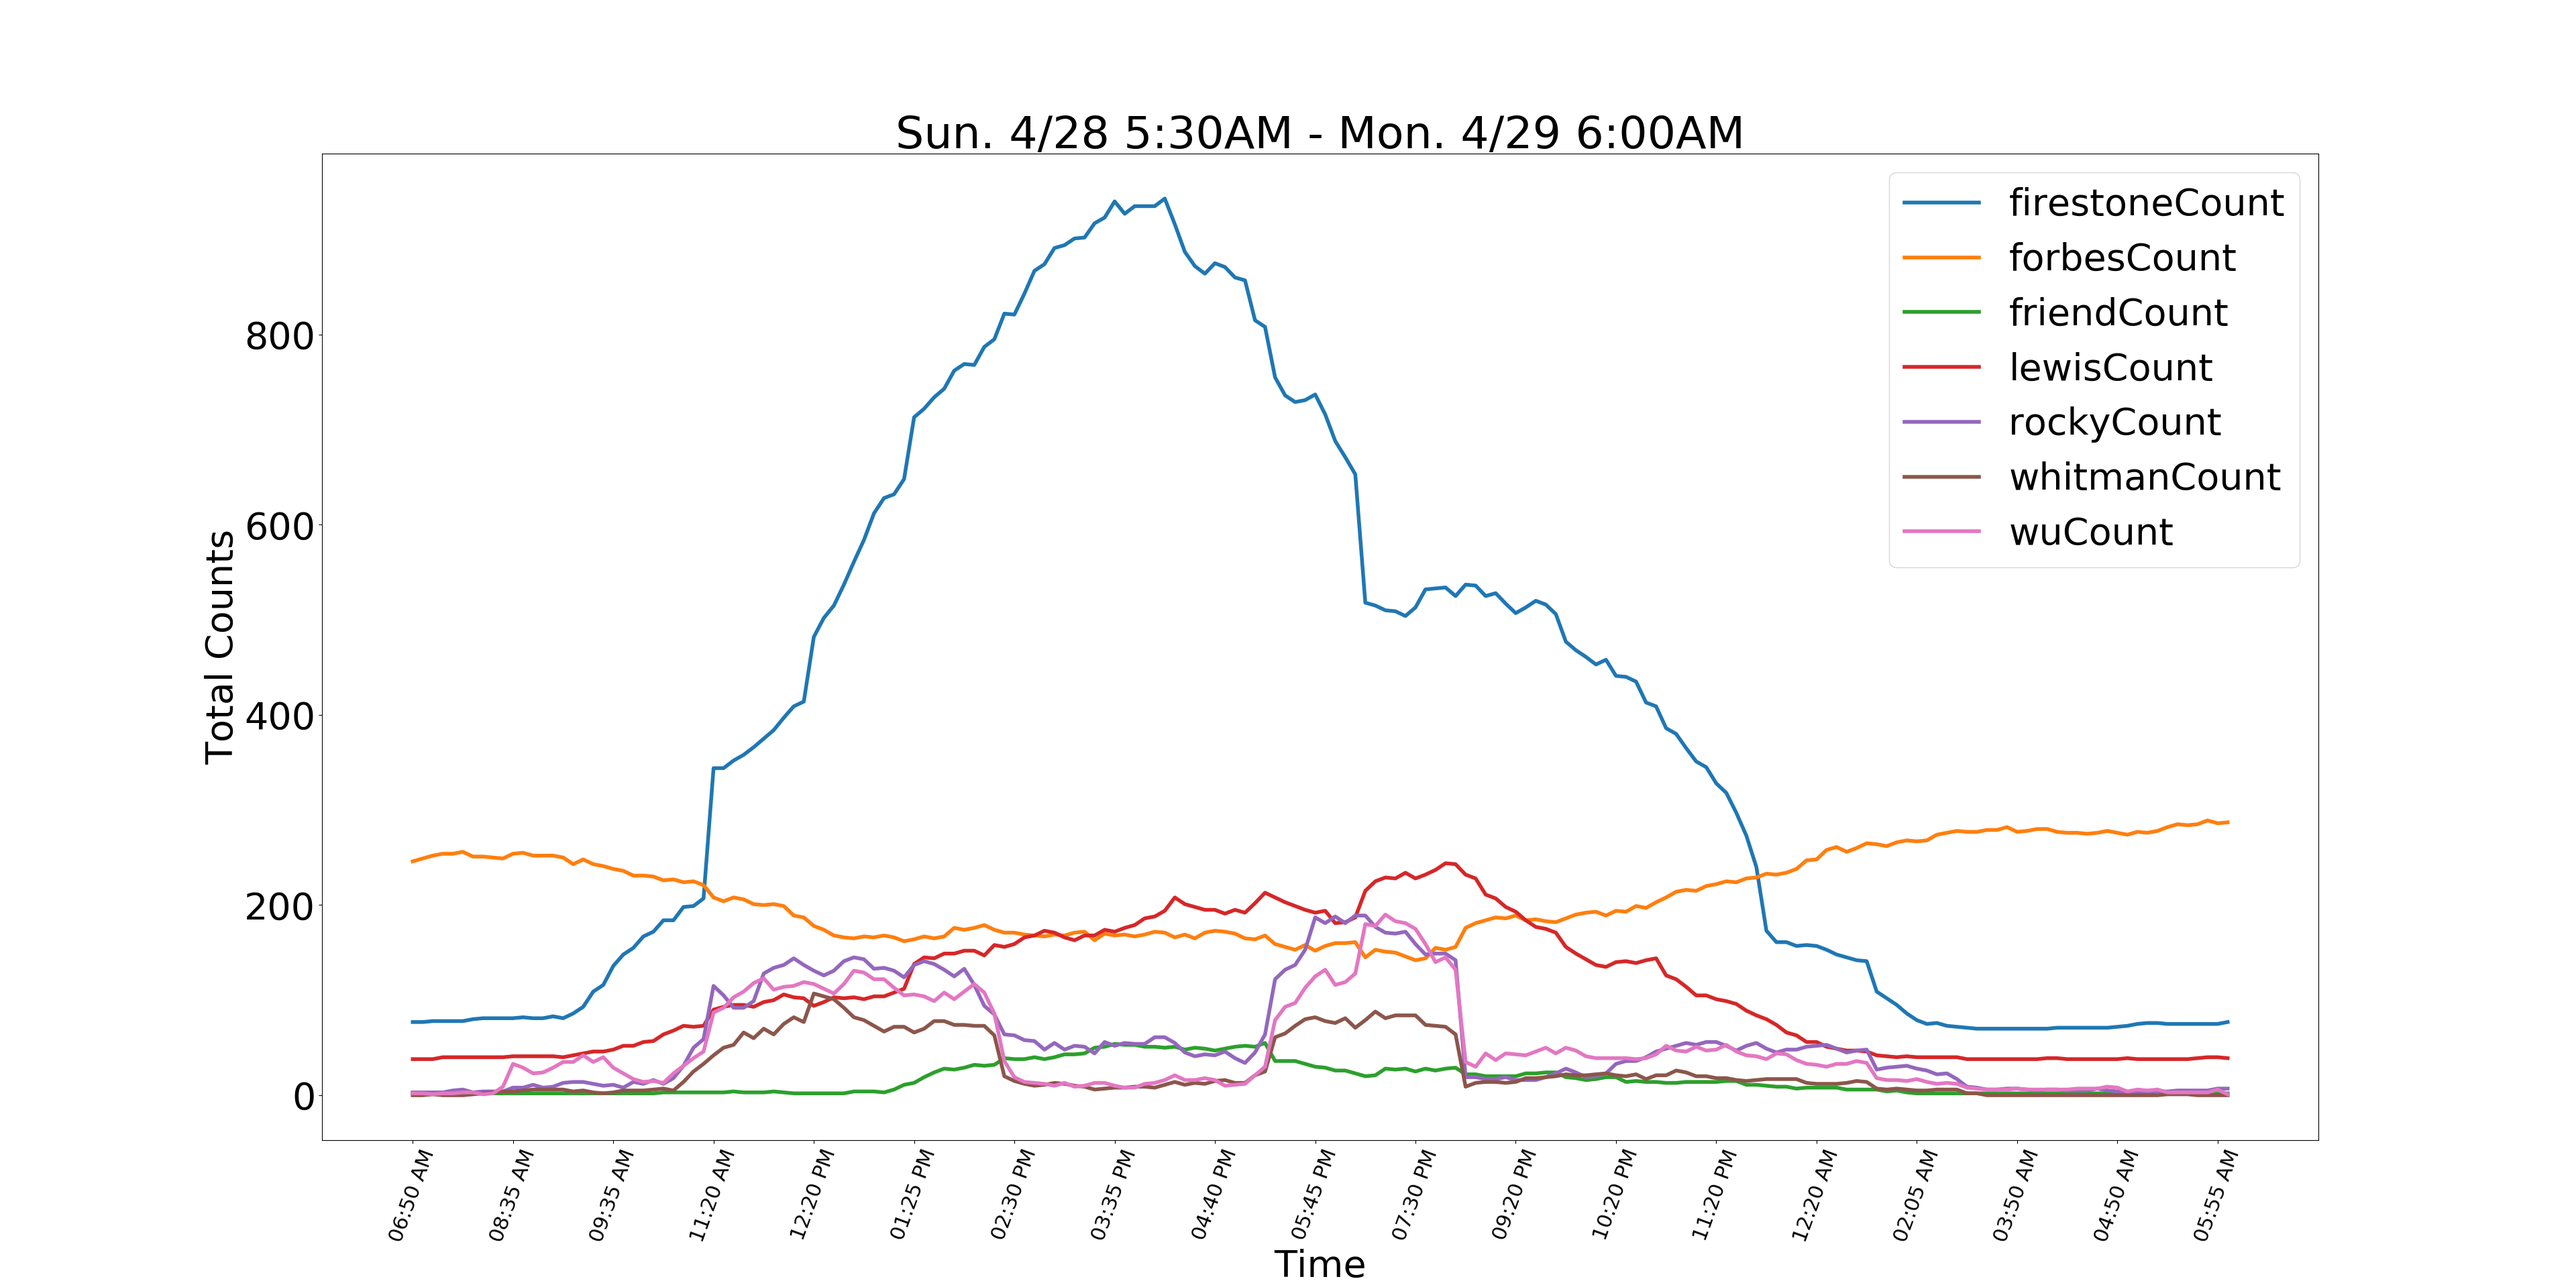
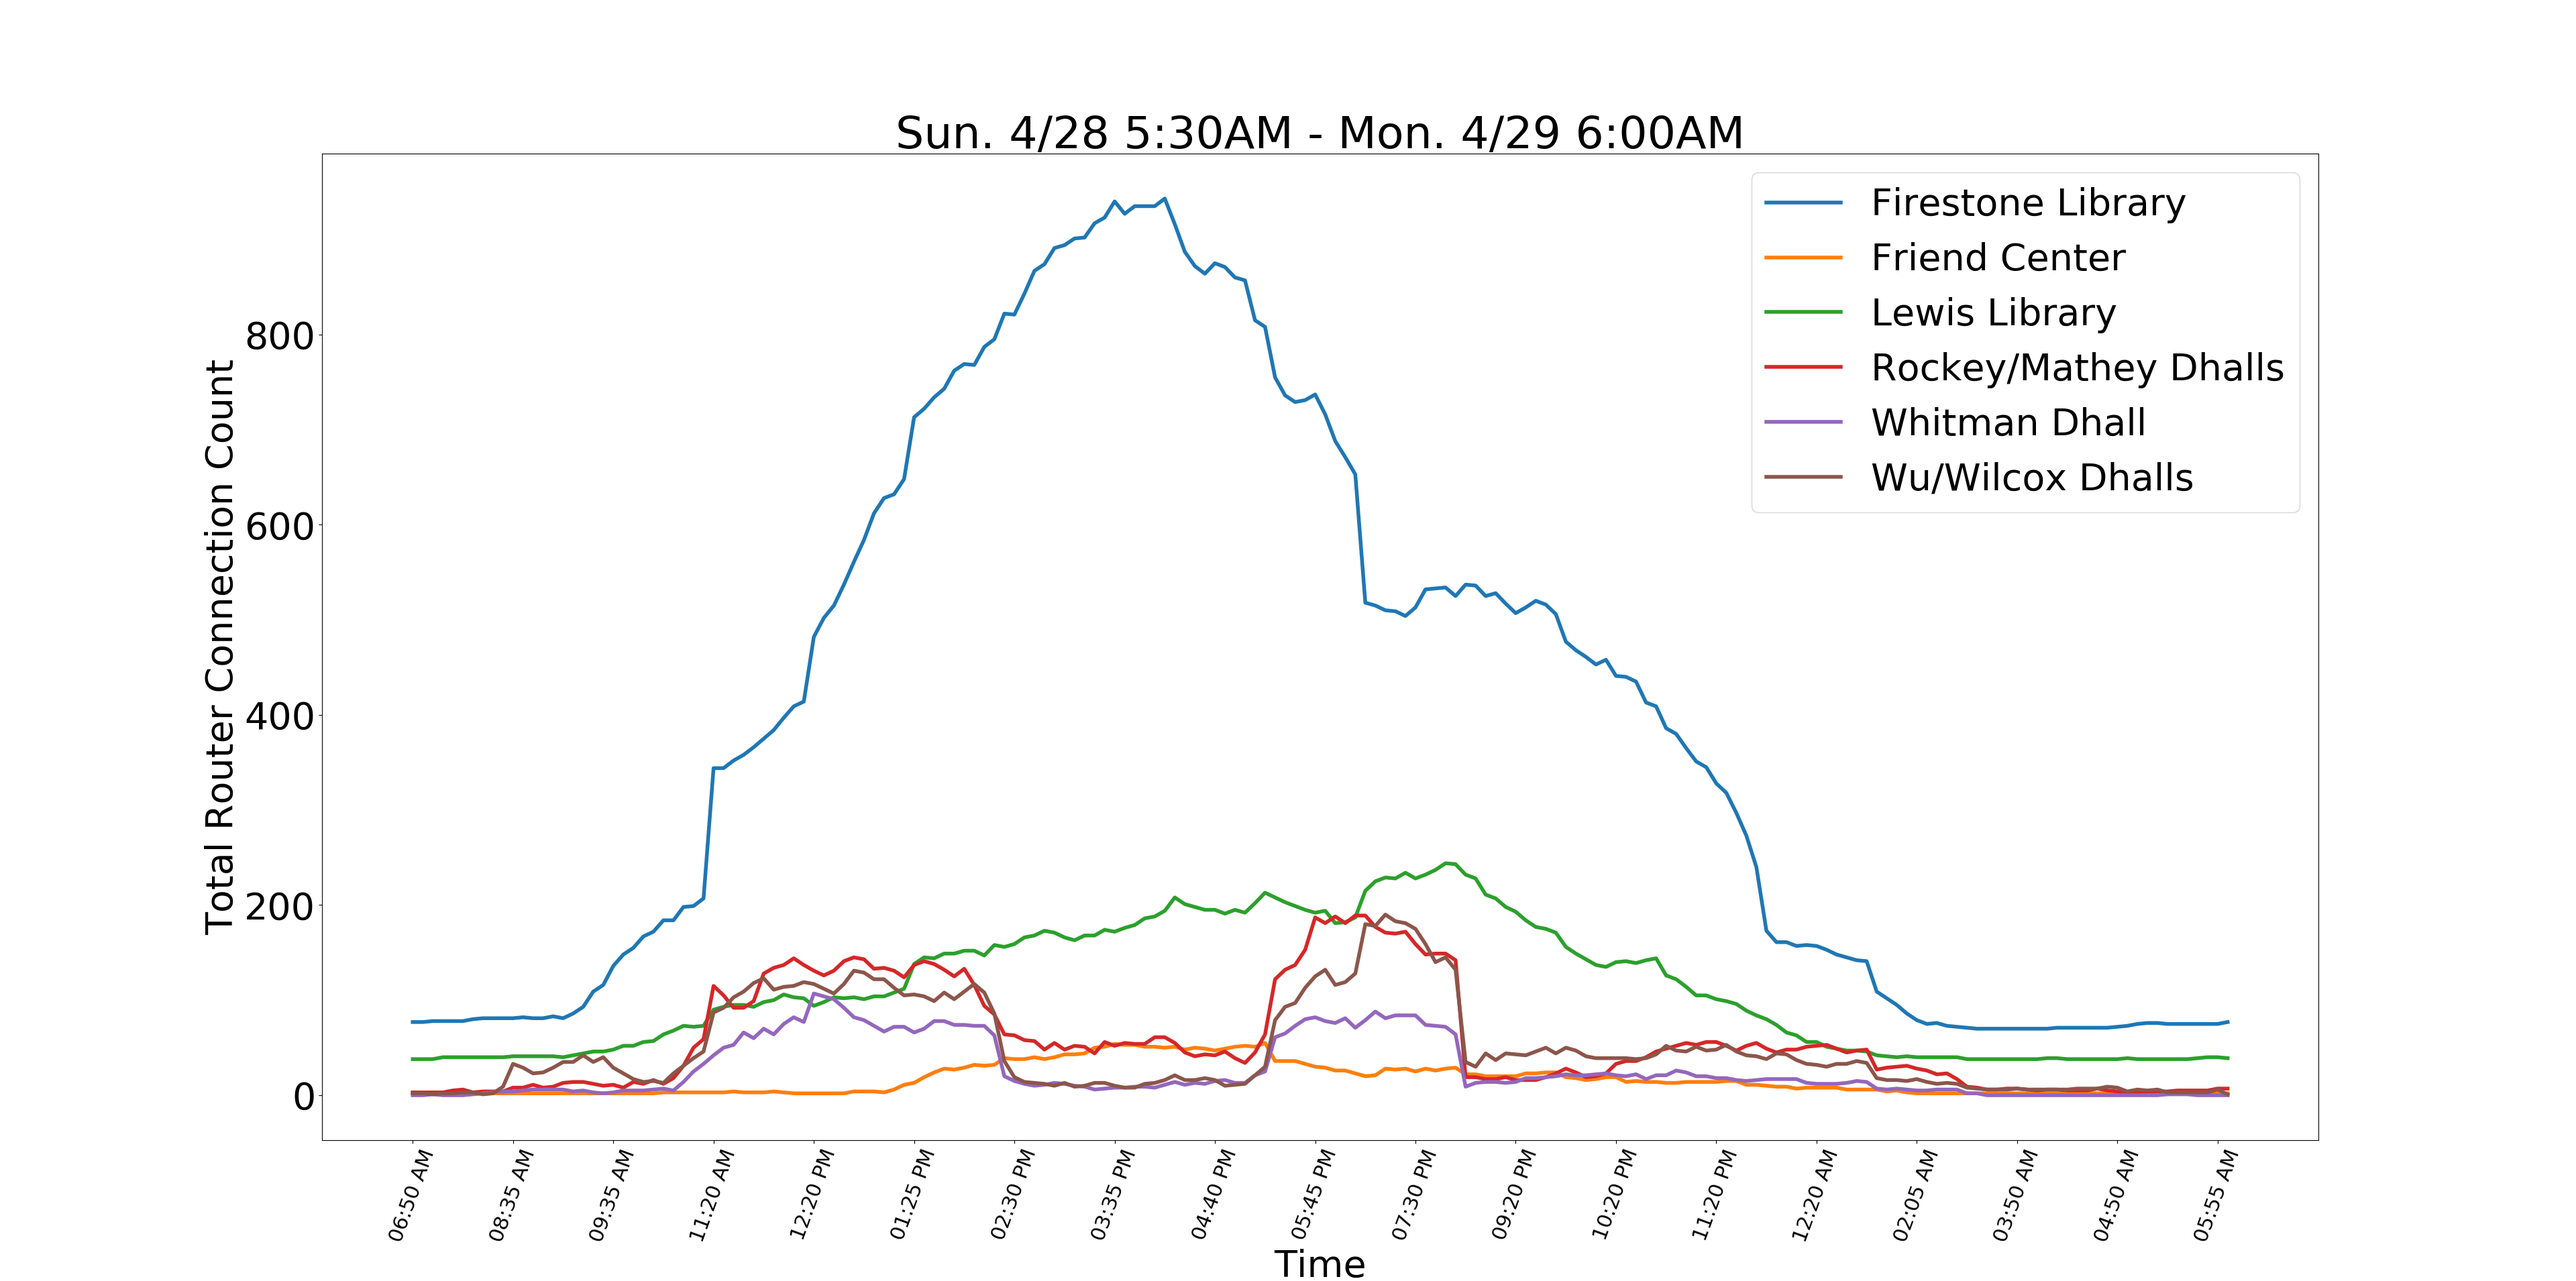
Removing forbes from daily plots and adding a monday plot

diff --git a/Raw_Timestamp_Data/mondayTimestamps.py b/Raw_Timestamp_Data/mondayTimestamps.py
@@ -1,0 +1,1 @@
+timestamps = [u'allRouterData_1556532019', u'allRouterData_1556532319', u'allRouterData_1556532618', u'allRouterData_1556536218', u'allRouterData_1556536518', u'allRouterData_1556536818', u'allRouterData_1556537119', u'allRouterData_1556537418', u'allRouterData_1556537718', u'allRouterData_1556538020', u'allRouterData_1556538318', u'allRouterData_1556538618', u'allRouterData_1556538919', u'allRouterData_1556539819', u'allRouterData_1556540119', u'allRouterData_1556540419', u'allRouterData_1556540718', u'allRouterData_1556541019', u'allRouterData_1556541318', u'allRouterData_1556541619', u'allRouterData_1556541919', u'allRouterData_1556542219', u'allRouterData_1556542518', u'allRouterData_1556543419', u'allRouterData_1556543718', u'allRouterData_1556544018', u'allRouterData_1556544319', u'allRouterData_1556544619', u'allRouterData_1556544918', u'allRouterData_1556545219', u'allRouterData_1556545519', u'allRouterData_1556545819', u'allRouterData_1556546119', u'allRouterData_1556549719', u'allRouterData_1556550019', u'allRouterData_1556550318', u'allRouterData_1556550619', u'allRouterData_1556550918', u'allRouterData_1556551218', u'allRouterData_1556551518', u'allRouterData_1556551819', u'allRouterData_1556552119', u'allRouterData_1556552419', u'allRouterData_1556552720', u'allRouterData_1556556019', u'allRouterData_1556556320', u'allRouterData_1556556619', u'allRouterData_1556556919', u'allRouterData_1556557219', u'allRouterData_1556557519', u'allRouterData_1556557817', u'allRouterData_1556558119', u'allRouterData_1556558418', u'allRouterData_1556558720', u'allRouterData_1556562319', u'allRouterData_1556562619', u'allRouterData_1556562919', u'allRouterData_1556563218', u'allRouterData_1556563519', u'allRouterData_1556563819', u'allRouterData_1556564119', u'allRouterData_1556564419', u'allRouterData_1556564718', u'allRouterData_1556565019', u'allRouterData_1556568619', u'allRouterData_1556568918', u'allRouterData_1556569218', u'allRouterData_1556569519', u'allRouterData_1556569819', u'allRouterData_1556570119', u'allRouterData_1556570419', u'allRouterData_1556570718', u'allRouterData_1556571019', u'allRouterData_1556571320', u'allRouterData_1556574918', u'allRouterData_1556575218', u'allRouterData_1556575519', u'allRouterData_1556575818', u'allRouterData_1556576119', u'allRouterData_1556576419', u'allRouterData_1556576719', u'allRouterData_1556577018', u'allRouterData_1556577319', u'allRouterData_1556577619', u'allRouterData_1556578519', u'allRouterData_1556578819', u'allRouterData_1556579119', u'allRouterData_1556579418', u'allRouterData_1556579718', u'allRouterData_1556580018', u'allRouterData_1556580318', u'allRouterData_1556580618', u'allRouterData_1556580919', u'allRouterData_1556581219', u'allRouterData_1556582119', u'allRouterData_1556582418', u'allRouterData_1556582719', u'allRouterData_1556583019', u'allRouterData_1556583318', u'allRouterData_1556583619', u'allRouterData_1556583918', u'allRouterData_1556584218', u'allRouterData_1556584517', u'allRouterData_1556584819', u'allRouterData_1556585719', u'allRouterData_1556586018', u'allRouterData_1556586319', u'allRouterData_1556586619', u'allRouterData_1556586919', u'allRouterData_1556587219', u'allRouterData_1556587519', u'allRouterData_1556587819', u'allRouterData_1556588119', u'allRouterData_1556588418', u'allRouterData_1556592018', u'allRouterData_1556592318', u'allRouterData_1556592618', u'allRouterData_1556592918', u'allRouterData_1556593218', u'allRouterData_1556593519', u'allRouterData_1556593820', u'allRouterData_1556594118', u'allRouterData_1556594418', u'allRouterData_1556595618', u'allRouterData_1556595919', u'allRouterData_1556596219', u'allRouterData_1556596519', u'allRouterData_1556596818', u'allRouterData_1556597119', u'allRouterData_1556597420', u'allRouterData_1556597719', u'allRouterData_1556598018', u'allRouterData_1556598319', u'allRouterData_1556599518', u'allRouterData_1556599818', u'allRouterData_1556600118', u'allRouterData_1556600419', u'allRouterData_1556600717', u'allRouterData_1556601018', u'allRouterData_1556601319', u'allRouterData_1556601618', u'allRouterData_1556601919', u'allRouterData_1556603118', u'allRouterData_1556603418', u'allRouterData_1556603718', u'allRouterData_1556604018', u'allRouterData_1556604318', u'allRouterData_1556604619', u'allRouterData_1556604920', u'allRouterData_1556605219', u'allRouterData_1556605518', u'allRouterData_1556606719', u'allRouterData_1556607019', u'allRouterData_1556607318', u'allRouterData_1556607618', u'allRouterData_1556607918', u'allRouterData_1556608219', u'allRouterData_1556608518', u'allRouterData_1556608819', u'allRouterData_1556609118', u'allRouterData_1556612718', u'allRouterData_1556613018', u'allRouterData_1556613317', u'allRouterData_1556613618', u'allRouterData_1556613919', u'allRouterData_1556614219', u'allRouterData_1556614518', u'allRouterData_1556614819', u'allRouterData_1556615119', u'allRouterData_1556616318', u'allRouterData_1556616619', u'allRouterData_1556616918', u'allRouterData_1556617219', u'allRouterData_1556617518', u'allRouterData_1556617819', u'allRouterData_1556618118', u'allRouterData_1556618418']

diff --git a/visualizeRouterData.py b/visualizeRouterData.py
@@ -1,6 +1,6 @@
 import numpy as np
 import matplotlib.pyplot as plt
-from Raw_Timestamp_Data.saturdayTimestamps import timestamps
+from Raw_Timestamp_Data.mondayTimestamps import timestamps
 from datetime import datetime, timedelta
 import os
 
@@ -14,16 +14,17 @@ for stamp in timestamps:
 	timeNames.append(estTimeStamp.strftime('%I:%M %p'))
 	
 
-data = np.load(os.path.join('Processed_Timestamp_Data', 'saturdayBuildingData.npy'))
+data = np.load(os.path.join('Processed_Timestamp_Data', 'mondayBuildingData.npy'))
 
-names = ["firestoneCount", "forbesCount", "friendCount", "lewisCount", "rockyCount", "whitmanCount", "wuCount"]
+names = ["Firestone Library", "Forbes", "Friend Center", "Lewis Library", "Rockey/Mathey Dhalls", "Whitman Dhall", "Wu/Wilcox Dhalls"]
 
 f, ax = plt.subplots()
 ax.tick_params(axis='x', which='both', labelsize=22)
 
 l = list(range(1,len(timeNames)+1))
 
-for i in range(data.shape[1]):
+# for i in range(data.shape[1]):
+for i in [0,2,3,4,5,6]:
 	ax.plot(l, list(data[:,i]), label=names[i], linewidth=4)
 
 newl = l[0::10]
@@ -33,7 +34,7 @@ xticks = [timeNames[i] for i in newlToIndices]
 ax.set_xticklabels(xticks, rotation=70)
 
 plt.xlabel('Time')
-plt.ylabel('Total Counts')
-plt.title('Sat. 4/27 6:00AM - Sun. 4/28 5:50AM')
+plt.ylabel('Total Router Connection Count')
+plt.title('Mon. 4/29 6:00AM - Tue. 4/30 6:00AM')
 plt.legend()
 plt.show()

diff --git a/countRouters.py b/countRouters.py
@@ -6,7 +6,7 @@ from firebase_admin import credentials
 from firebase_admin import firestore
 import numpy as np
 import os
-from Raw_Timestamp_Data.saturdayTimestamps import timestamps
+from Raw_Timestamp_Data.mondayTimestamps import timestamps
 
 upDirectory = '.'
 if os.name == 'nt':
@@ -73,5 +73,5 @@ for t in timestamps:
 	
 	allBuildingCounts.append(buildingCounts)
 
-np.save(os.path.join('Processed_Timestamp_Data', 'saturdayBuildingData.npy'), allBuildingCounts)
+np.save(os.path.join('Processed_Timestamp_Data', 'mondayBuildingData.npy'), allBuildingCounts)
     
